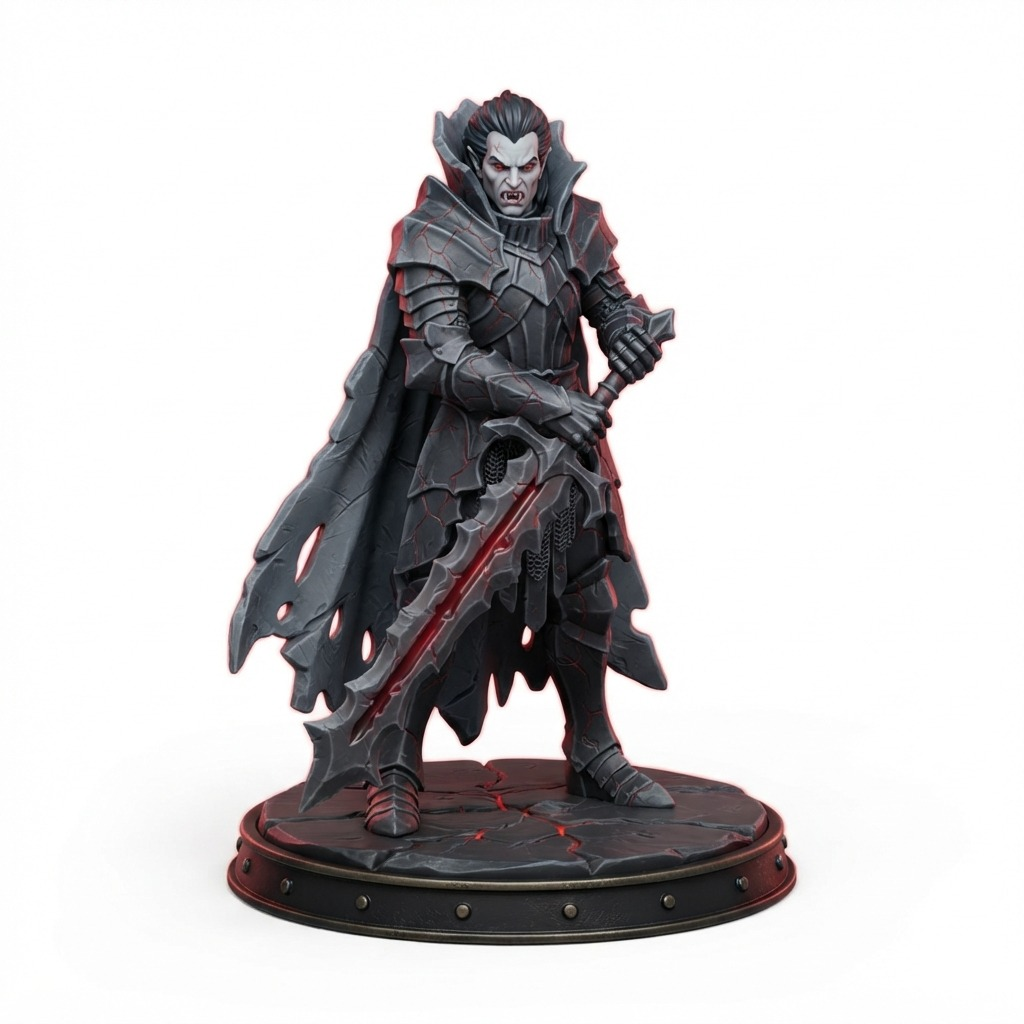
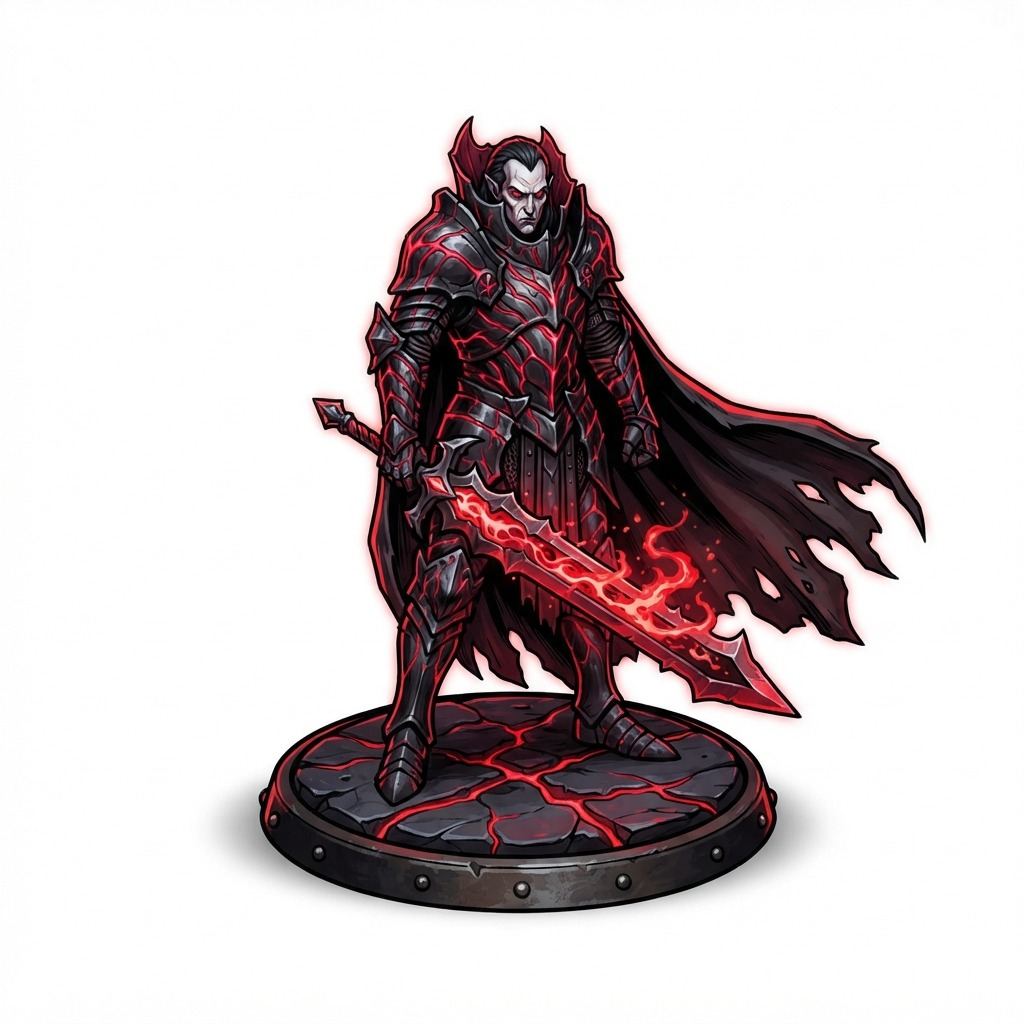
feat(miniature): replace Lord Vladislav with new transparent cutout model, auto-migrate saved squads, and add deploy MVP button

diff --git a/lib/shared/widgets/app_shell.dart b/lib/shared/widgets/app_shell.dart
@@ -113,12 +113,33 @@ class _AppShellState extends State<AppShell> {
           _clearedGauntletTrials.clear();
           _clearedGauntletTrials.addAll(saved.clearedGauntletTrials);
 
-          if (saved.allies.isNotEmpty) {
+          List<UnitEntity> alliesToRestore = saved.allies;
+          // MVP migration: if the restored squad doesn't contain Lord Vladislav, ensure Lord Vladislav is leading in slot front1
+          final bool hasVladInAllies = alliesToRestore.any(
+            (u) => u.name.contains('Vladislav') || u.speciesId.contains('vladislav') || u.id.contains('vladislav'),
+          );
+          final bool hasVladInReserve = saved.reserveInventory.any(
+            (u) => u.name.contains('Vladislav') || u.speciesId.contains('vladislav') || u.id.contains('vladislav'),
+          );
+
+          if (!hasVladInAllies && !hasVladInReserve) {
+            final vlad = StarterBrigades.createAshLegionPlayerSquad().first;
+            if (alliesToRestore.isNotEmpty) {
+              alliesToRestore = [
+                vlad.copyWith(slot: alliesToRestore.first.slot),
+                ...alliesToRestore.skip(1),
+              ];
+            } else {
+              alliesToRestore = StarterBrigades.createAshLegionPlayerSquad();
+            }
+          }
+
+          if (alliesToRestore.isNotEmpty) {
             _tickManager.dispose();
             _commandService.dispose();
             _tickManager = InitiativeTickManager(
-              initialAllies: saved.allies,
-              initialEnemies: StarterBrigades.createTutorialEnemies(),
+              initialAllies: alliesToRestore,
+              initialEnemies: StarterBrigades.createCryptStalkersEnemySquad(),
               tickInterval: const Duration(milliseconds: 140),
               onTick: () => _commandService.onSimulationTick(),
             );
@@ -126,8 +147,14 @@ class _AppShellState extends State<AppShell> {
               tickManager: _tickManager,
               generalType: _activeGeneralType,
               initialFocus: (_phylacteryRanks[_activeGeneralType] ?? 1) >= 3 ? 2 : 1,
+              maxFocus: _activeGeneralType == GeneralType.vladislav
+                  ? GeneralCommandService.grimoireMaxFocusCap
+                  : GeneralCommandService.defaultMaxFocusCap,
               initialPhylacteryRanks: _phylacteryRanks,
             );
+            if (_activeGeneralType == GeneralType.vladislav) {
+              _commandService.initializeGrimoire();
+            }
             _combatService = CombatResolutionService(
               tickManager: _tickManager,
               commandService: _commandService,
@@ -1501,6 +1528,47 @@ class _AppShellState extends State<AppShell> {
         centerTitle: true,
         actions: [
           IconButton(
+            tooltip: 'Deploy MVP Ash Legion (Lord Vladislav)',
+            icon: const Icon(Icons.refresh, size: 20, color: Color(0xFFE5A93C)),
+            onPressed: () async {
+              setState(() {
+                _activeGeneralType = GeneralType.vladislav;
+                _tickManager.dispose();
+                _commandService.dispose();
+                _tickManager = InitiativeTickManager(
+                  initialAllies: StarterBrigades.createAshLegionPlayerSquad(),
+                  initialEnemies: StarterBrigades.createCryptStalkersEnemySquad(),
+                  tickInterval: const Duration(milliseconds: 140),
+                  onTick: () => _commandService.onSimulationTick(),
+                );
+                _commandService = GeneralCommandService(
+                  tickManager: _tickManager,
+                  generalType: GeneralType.vladislav,
+                  initialFocus: 6,
+                  maxFocus: GeneralCommandService.grimoireMaxFocusCap,
+                  initialPhylacteryRanks: _phylacteryRanks,
+                );
+                _commandService.initializeGrimoire();
+                _combatService = CombatResolutionService(
+                  tickManager: _tickManager,
+                  commandService: _commandService,
+                  relicService: _relicService,
+                );
+                _tickManager.start();
+              });
+              await _saveCurrentState();
+              if (mounted) {
+                ScaffoldMessenger.of(context).showSnackBar(
+                  const SnackBar(
+                    content: Text('MVP Ash Legion Deployed: Lord Vladislav leading on Frontline!'),
+                    backgroundColor: Color(0xFFB3261E),
+                    duration: Duration(seconds: 3),
+                  ),
+                );
+              }
+            },
+          ),
+          IconButton(
             tooltip: 'Save Lineage Progress',
             icon: const Icon(Icons.save_outlined, size: 20, color: Color(0xFF81C784)),
             onPressed: () async {
@@ -1534,7 +1602,18 @@ class _AppShellState extends State<AppShell> {
                 CircleAvatar(
                   radius: 18,
                   backgroundColor: profile.themeColor.withValues(alpha: 0.3),
-                  child: Icon(profile.icon, color: profile.themeColor, size: 20),
+                  child: profile.type == GeneralType.vladislav
+                      ? ClipOval(
+                          child: Image.asset(
+                            'assets/images/lord_vladislav.png',
+                            width: 36,
+                            height: 36,
+                            fit: BoxFit.cover,
+                            alignment: const Alignment(0, -0.6),
+                            errorBuilder: (_, __, ___) => Icon(profile.icon, color: profile.themeColor, size: 20),
+                          ),
+                        )
+                      : Icon(profile.icon, color: profile.themeColor, size: 20),
                 ),
                 const SizedBox(width: 12),
                 Expanded(

diff --git a/lib/shared/models/unit_entity.dart b/lib/shared/models/unit_entity.dart
@@ -166,7 +166,7 @@ class UnitEntity {
     if (customAvatarAsset != null) return customAvatarAsset!;
     // Commander: Lord Vladislav
     if (id.contains('vladislav') || speciesId.contains('vladislav') || name.contains('Vladislav')) {
-      return 'assets/images/lord_vladislav.jpg';
+      return 'assets/images/lord_vladislav.png';
     }
 
     // Primordial Boss / Titan (Goro / Flayed Butcher)
